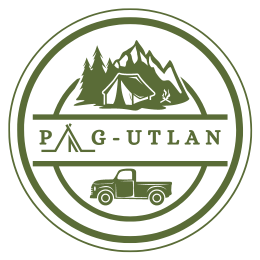
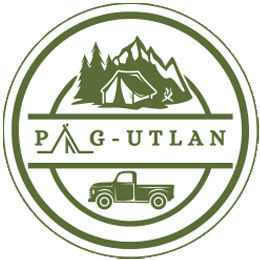
minor visual changes
-changed logo size
-changed color pallete
-Icon changed

diff --git a/Pag-Utlan Camp/style.css b/Pag-Utlan Camp/style.css
@@ -3,7 +3,9 @@
   box-sizing: border-box;
   margin: 0;
   padding: 0;
+  
 }
+
 
 body {
   background-color: #000000;
@@ -25,13 +27,14 @@ button {
   text-transform: uppercase;
   letter-spacing: 2.5px;
   color: #070707;
-  background-color: #009688;
+  background-color: #fff;
   border: none;
   border-radius: 45px;
   box-shadow: 0px 8px 15px rgba(0, 0, 0, 0.1);
   transition: all 0.3s ease 0s;
   cursor: pointer;
   outline: none;
+  
 }
 
 button:hover {
@@ -98,11 +101,12 @@ button:active {
 
  /* default styles for the nav bar */
  nav {
+  color: #c67a4d;
   display: flex;
   justify-content: space-between;
   align-items: center;
   padding: 1rem 2rem;
-  background-color: #fff;
+  background-color: #fcf2dc;
   position: fixed;
   top: 0;
   left: 0;
@@ -111,8 +115,9 @@ button:active {
 }
 
 nav img {
-  height: 50px;
+  height: 65px;
   width: auto;
+  
 }
 
 nav ul {
@@ -159,7 +164,7 @@ nav ul li a:hover {
     position: fixed;
     top: 80px;
     left: 0;
-    background-color: #fff;
+    background-color: #fcf2dc;;
     height: calc(100vh - 80px);
     width: 100%;
     flex-direction: column;
@@ -190,6 +195,9 @@ nav ul li a:hover {
 .hero {
   background-image: linear-gradient(rgba(8, 8, 8, 0.7), rgba(8, 12, 31, 0.7)),
     url(Final_Resources/Pagutlan.JPG);
+  
+  
+  background-attachment: fixed;
   background-position: center;
   background-repeat: no-repeat;
   background-size: cover;
@@ -239,17 +247,19 @@ nav ul li a:hover {
 
 /* About section styles */
 .about {
-  background-color: #f1f1f1;
+  background-color: #008185;
   padding: 100px 0;
   text-align: center;
 }
 
 .about h2 {
+  color: #fff;
   font-size: 36px;
   margin-bottom: 30px;
 }
 
 .about p {
+  color: #fff;
   font-size: 24px;
   max-width: 800px;
   margin: 0 auto 30px;
@@ -277,9 +287,10 @@ nav ul li a:hover {
 
 /* Accommodations section styles */
 .accommodations {
-  color: #fff;
+  color: #000000;
   padding: 100px 0;
   text-align: center;
+  background-color: #fcf2dc;
 }
 
 .accommodations h2 {
@@ -322,14 +333,17 @@ nav ul li a:hover {
   left: 0;
   opacity: 0;
   width: 100%;
-  height: 100%;
+  height: 95%;
+  margin-bottom: 10px;
+  border-radius: 10px;
   background-color: rgba(0, 0, 0, 0.8);
   color: #fff;
   text-align: center;
   padding: 20px;
   box-sizing: border-box;
   transition: opacity 0.3s;
-  z-index: 2; /* added */
+  z-index: 1; /* added */
+  
 }
 
 .accommodations li:hover .description {
@@ -386,6 +400,7 @@ nav ul li a:hover {
 
 /* Activities Section Styles */
 .activities {
+  background-color: #008185;
   color: #fff;
   text-align: center;
   padding: 100px 0;
@@ -438,9 +453,10 @@ nav ul li a:hover {
 
 /* Contact section styles */
 .contact {
-background-color: #fff;
+background-color: #008185;
 padding: 100px 0;
 text-align: center;
+color: #fff;
 }
 
 .contact h2 {
@@ -515,7 +531,7 @@ margin-top: 20px;
 
 /*More photos style*/
 .more-photos {
-  background-color: #f1f1f1;
+  background-color:#fcf2dc;
   padding: 50px 0;
 }
 
@@ -600,6 +616,7 @@ margin-top: 20px;
   }
 }
 /*Reviews*/
+
 * {
   margin: 0;
   padding: 0;
@@ -611,7 +628,7 @@ margin-top: 20px;
 .testimonials {
   font-family: 'Alegreya', serif;
   padding: 40px 0;
-  background: #f1f1f1;
+  background: #fcf2dc;;
   color: #434343;
   text-align: center;
 }

diff --git a/Pag-Utlan Camp/index.html b/Pag-Utlan Camp/index.html
@@ -24,7 +24,7 @@
     </div>
     <header>
       <nav>
-        <img src="Final_Resources/logo.JPG" alt="logo">
+        <img src="Final_Resources/logo_1.png" alt="logo">
         <ul class="nav-links">
           <li><a href="#about">ABOUT</a></li>
           <li><a href="#accommodations">ACCOMMODATIONS</a></li>
@@ -115,7 +115,7 @@
               </div>
 
               <p>
-                Lorem ipsum dolor sit amet, consectetur adipiscing elit, sed do eiusmod tempor incididunt ut labore et dolore magna aliqua. Ut enim ad minim veniam.
+                "Exceptional 5-star camping resort. Spacious and well-appointed campsites with modern amenities. Friendly and attentive staff went above and beyond. Breathtaking location with a wide range of activities and facilities available."
               </p>
             </div>
           </div>
@@ -133,7 +133,7 @@
               </div>
 
               <p>
-                Lorem ipsum dolor sit amet, consectetur adipiscing elit, sed do eiusmod tempor incididunt ut labore et dolore magna aliqua. Ut enim ad minim veniam.
+                "Decent camping resort near the beach. Spacious and well-maintained campsites, but limited amenities. The location is the resort's strongest feature, offering stunning ocean views. Overall, a good option for a simple camping experience."
               </p>
             </div>
           </div>
@@ -151,7 +151,7 @@
               </div>
 
               <p>
-                Lorem ipsum dolor sit amet, consectetur adipiscing elit, sed do eiusmod tempor incididunt ut labore et dolore magna aliqua. Ut enim ad minim veniam.
+                "Great camping resort near the beach. Stunning location with clean and comfortable campsites. Good range of activities, but staff could be more attentive. Recommended for a fun and relaxing beach vacation."
               </p>
             </div>
           </div>
